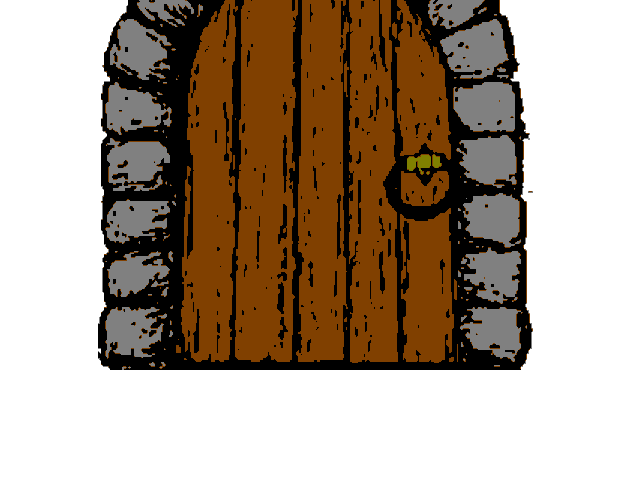
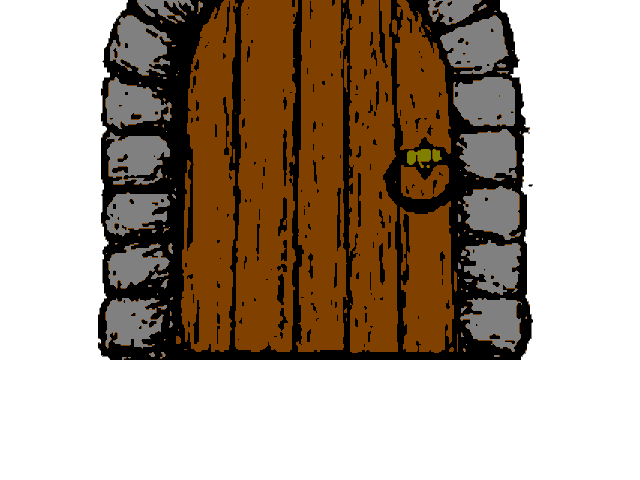
updated doors, enemy images, etc.

diff --git a/src/lib/abilities.ts b/src/lib/abilities.ts
@@ -2,7 +2,7 @@ import { GameState } from '../classes/GameState';
 import Unit from "../classes/Unit";
 import { sleep } from './promises';
 import { playAudio } from './sounds';
-import { getAttackDamage, getDodgeChance, getHitChance, getMitigatedDamage } from './stats';
+import { getDodgeChance, getMitigatedDamage } from './stats';
 
 // copy-pasted, meh
 const shortSleepMillis = 150;
@@ -31,7 +31,7 @@ const useAttackAbility = async (ability: AttackAbility, attacker: Unit, defender
     if (Math.random() < dodgeChance) {
       state.addMessage(`${defender.name} dodges ${attacker.name}'s attack.`);
     } else {
-      await playAudio(attacker.sprite.sounds.attack);
+      await playAudio(attacker.sprite.sounds.attack, longSleepMillis);
       const attackDamage = ability.getDamage(attacker);
       const mitigatedDamage = getMitigatedDamage(defender, attackDamage);
       state.addMessage(ability.getHitMessage(attacker, defender, mitigatedDamage));
@@ -39,7 +39,7 @@ const useAttackAbility = async (ability: AttackAbility, attacker: Unit, defender
 
       if (defender.life <= 0) {
         await sleep(shortSleepMillis);
-        await playAudio(defender.sprite.sounds.die);
+        await playAudio(defender.sprite.sounds.die, longSleepMillis);
         const preDeathMessage = ability.getPreDeathMessage(attacker, defender);
         if (preDeathMessage) {
           state.addMessage(preDeathMessage);

diff --git a/src/components/MinimapView.tsx b/src/components/MinimapView.tsx
@@ -1,11 +1,19 @@
 import { GameState } from '../classes/GameState';
 import { CompassDirection, Coordinates } from '../lib/geometry';
 import { Level } from '../lib/levels';
-import { Tile } from '../lib/tiles';
+import { isDoor, isFloor, isWall, Tile } from '../lib/tiles';
 import styles from './MinimapView.module.css';
 
 const tileClass = (tile: Tile | null, currentTile: Tile, currentDirection: CompassDirection): string => {
-  const classNames: string[] = [styles.tile, styles[tile?.type || 'wall']];
+  const classNames: string[] = [styles.tile];
+  if (isDoor(tile)) {
+    classNames.push(styles.door);
+  } else if (isWall(tile)) {
+    classNames.push(styles.wall);
+  } else if (isFloor(tile)) {
+    classNames.push(styles.floor);
+  }
+
   if (tile === currentTile) {
     classNames.push(styles.current);
     classNames.push(styles[currentDirection]);

diff --git a/src/components/ShopView.tsx b/src/components/ShopView.tsx
@@ -18,15 +18,18 @@ const ShopView = () => {
   const [boughtAnything, setBoughtAnything] = useState(false);
 
   useEffect(() => {
-    playAudio(shopkeeper_what_do_you_want_mp3);
+    playAudio(shopkeeper_what_do_you_want_mp3).then(() => {});
+
+    return () => {
+      if (boughtAnything) {
+        playAudio(shopkeeper_come_back_soon_mp3).then(() => {});
+      } else {
+        playAudio(shopkeeper_thanks_for_nothing_mp3).then(() => {});
+      }
+    };
   }, []);
 
   const handleExit = async () => {
-    if (boughtAnything) {
-      await playAudio(shopkeeper_come_back_soon_mp3);
-    } else {
-      await playAudio(shopkeeper_thanks_for_nothing_mp3);
-    }
     state.getPlayer().location = 'town';
   };
 

diff --git a/scripts/colors.ts b/scripts/colors.ts
@@ -4,6 +4,7 @@ const Colors: Record<string, RGBA> = {
   BLACK: [0, 0, 0, 255],
   BLUE: [0, 0, 255, 255],
   BROWN: [128, 64, 0, 255],
+  CYAN: [0, 255, 255, 255],
   LIGHT_GRAY: [192, 192, 192, 255],
   LIGHTER_GRAY: [224, 224, 224, 255],
   DARK_BROWN: [64, 32, 0, 255],
@@ -11,8 +12,10 @@ const Colors: Record<string, RGBA> = {
   DARK_GREEN: [0, 128, 0, 255],
   DARK_YELLOW: [128, 128, 0, 255],
   DARKER_GRAY: [64, 64, 64, 255],
+  GREEN: [0, 255, 0, 255],
   MAGENTA: [255, 0, 255, 255],
   RED: [255, 0, 0, 255],
+  TEAL: [0, 128, 128, 255],
   TRANSPARENT: [0, 0, 0, 0],
   WHITE: [255, 255, 255, 255],
   YELLOW: [255, 255, 0, 255]

diff --git a/scripts/preprocess.ts b/scripts/preprocess.ts
@@ -40,6 +40,18 @@ const getPaletteSwaps = (filename: string): Pair<RGBA>[] => {
     ];
   } else if (filename.match(/arrow/g)) {
     return [];
+  } else if (filename.match(/crocdog/g)) {
+    return [
+      [Colors.GREEN, Colors.LIGHT_GRAY],
+      [Colors.BLUE, Colors.DARK_GRAY],
+      [Colors.YELLOW, Colors.TEAL],
+      [Colors.WHITE, Colors.TRANSPARENT]
+    ];
+  } else if (filename.match(/mudman/g)) {
+    return [
+      [Colors.GREEN, Colors.BROWN],
+      [Colors.WHITE, Colors.TRANSPARENT]
+    ];
   } else {
     return [
       [Colors.WHITE, Colors.TRANSPARENT]

diff --git a/src/lib/sounds.ts b/src/lib/sounds.ts
@@ -1,20 +1,21 @@
 let BUSY = false;
 
-export const playAudio = async (sound: string) => {
+export const playAudio = async (sound: string, durationMs?: number) => {
   if (BUSY) {
     return;
   }
   BUSY = true;
   const audio = new Audio(sound);
+  audio.volume = 0.5;
   await audio.play();
 
-  return new Promise<void>(resolve => {
+  await new Promise<void>(resolve => {
     setTimeout(
       () => {
         BUSY = false;
         resolve();
       },
-      audio.duration * 1000
+      durationMs || (audio.duration * 1000)
     );
   });
 };

diff --git a/src/lib/sprites.ts b/src/lib/sprites.ts
@@ -1,6 +1,6 @@
 import kobold_png from '../images/gen/kobold.png';
-import crocdog_png from '../images/gen/crocdog.png';
-import mudman_png from '../images/gen/mudman.png';
+import crocdog_png from '../images/gen/crocdog_1.png';
+import mudman_png from '../images/gen/mudman_1.png';
 
 import crocdog_attack_mp3 from '../sounds/crocdog_attack.mp3';
 import crocdog_die_mp3 from '../sounds/crocdog_die.mp3';

diff --git a/src/lib/tiles.ts b/src/lib/tiles.ts
@@ -13,7 +13,7 @@ type Tile = {
 
 const isWall = (tile: Tile | null) => tile?.type === 'wall';
 const isDoor = (tile: Tile | null) => tile?.door;
-
+const isFloor = (tile: Tile | null) => tile?.type === 'floor';
 const isStairs = (tile: Tile | null) => tile?.type === 'stairs';
 
 export type {
@@ -22,6 +22,7 @@ export type {
 
 export {
   isDoor,
-  isStairs, 
+  isFloor,
+  isStairs,
   isWall
 };

diff --git a/src/database/units.ts b/src/database/units.ts
@@ -42,13 +42,13 @@ const createCrocDog = (): Unit => {
 const createMudMan = (): Unit => {
   const unit = new Unit({
     name: 'Mud Man',
-    level: 1,
+    level: 2,
     stats: {
-      strength: 6,
+      strength: 8,
       dexterity: 4,
       intelligence: 3,
       wisdom: 2,
-      constitution: 4
+      constitution: 6
     },
     sprite: mudManSprite
   });

diff --git a/scripts/halls_and_walls.ts b/scripts/halls_and_walls.ts
@@ -221,7 +221,7 @@ const getTop = (depth: Depth): number => {
 const getBottom = (depth: Depth): number => {
   switch (depth) {
     case 0: return 570;
-    case 1: return 370;
+    case 1: return 360;
     case 2: return 260;
     case 3: return 190;
     case 4: return 150;
